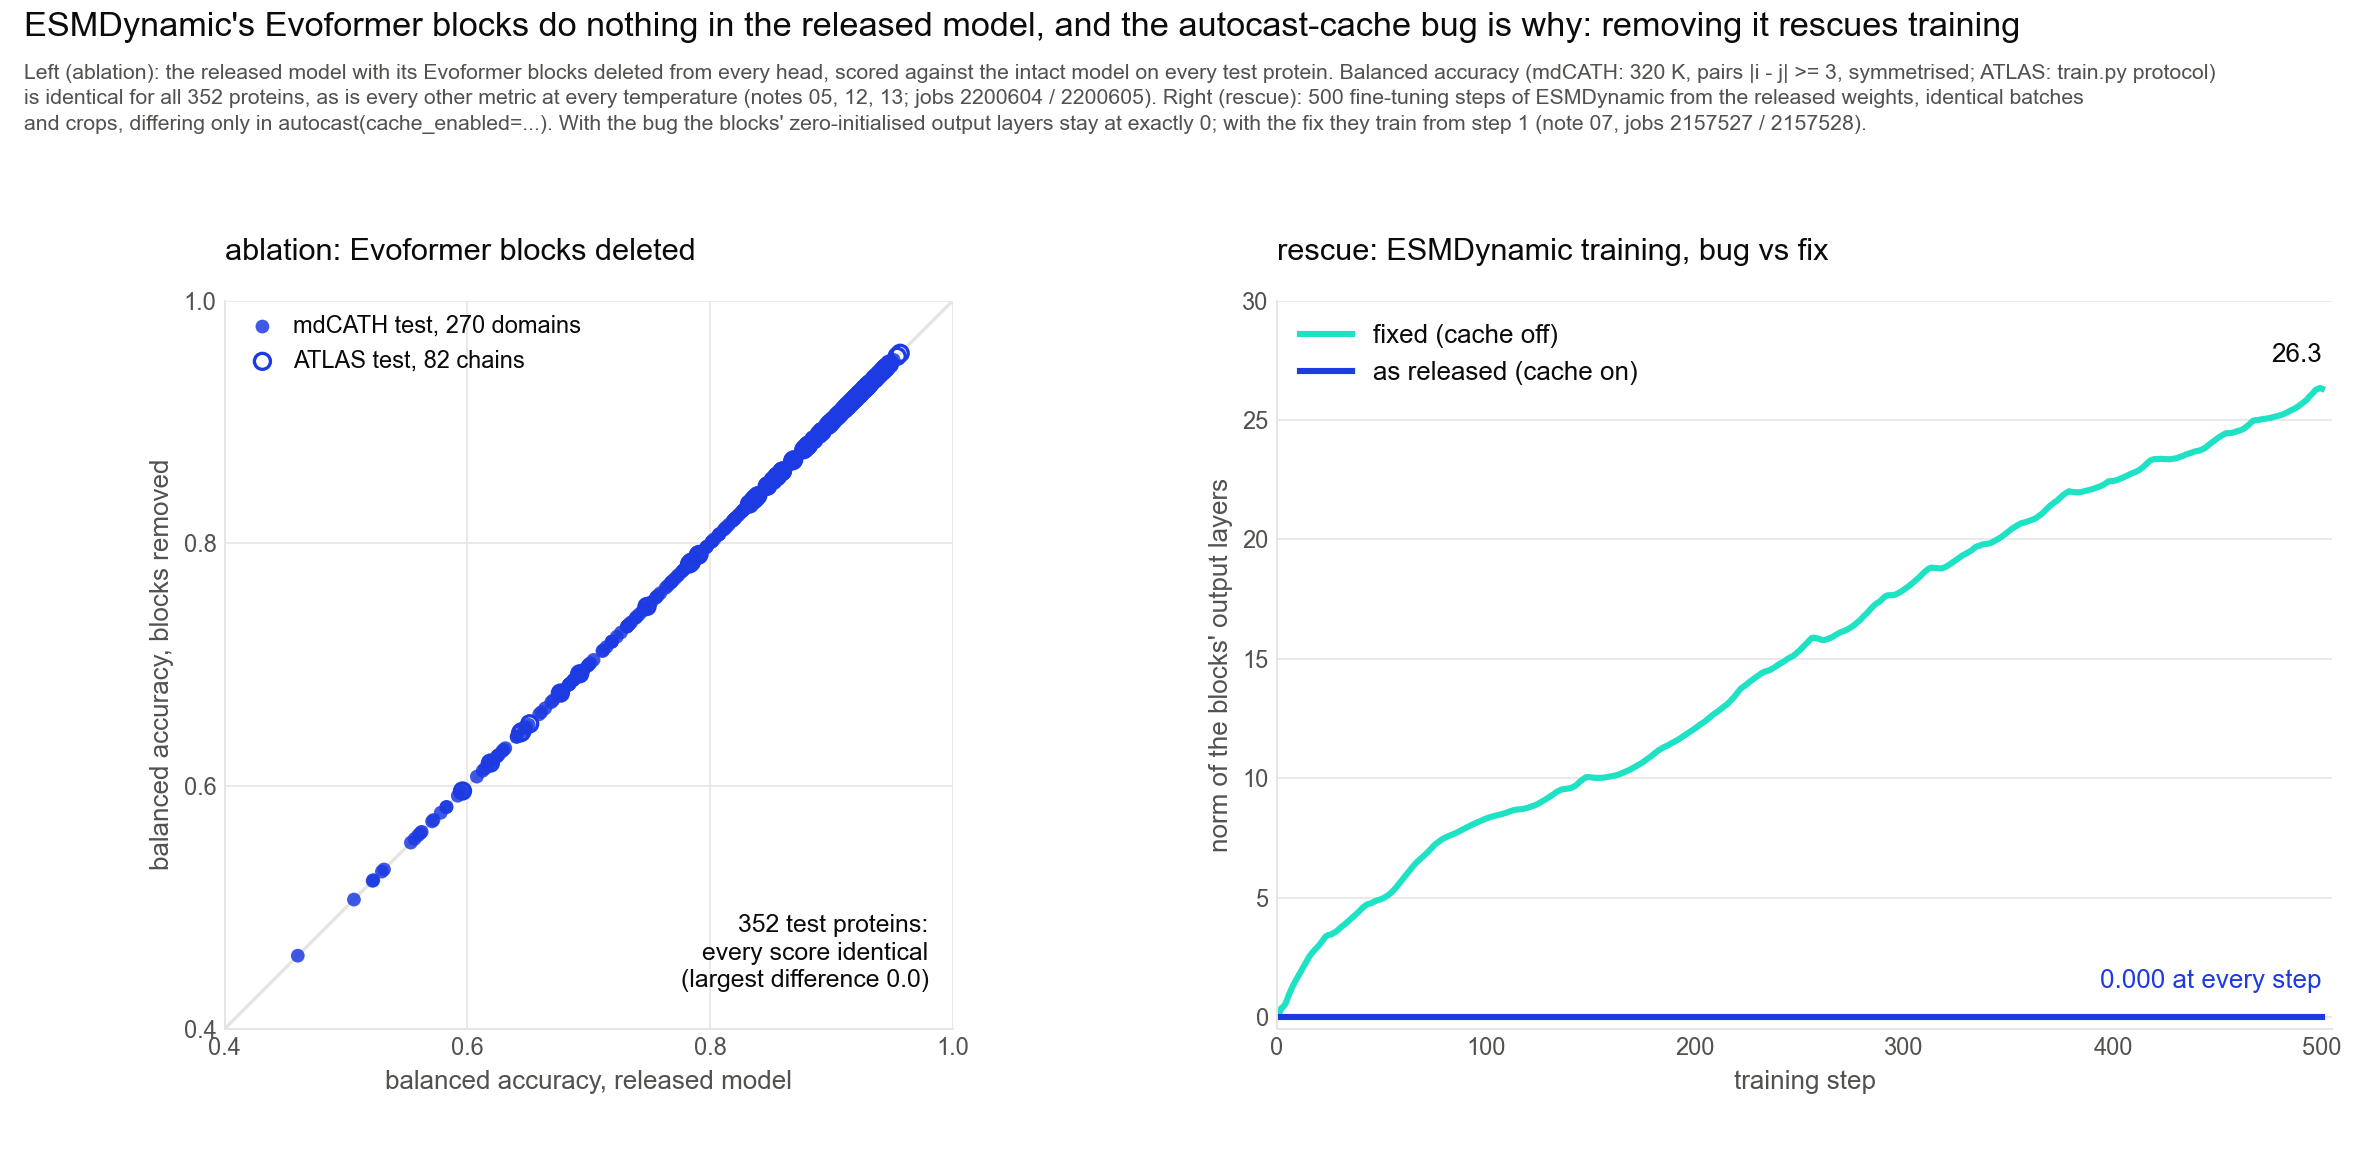
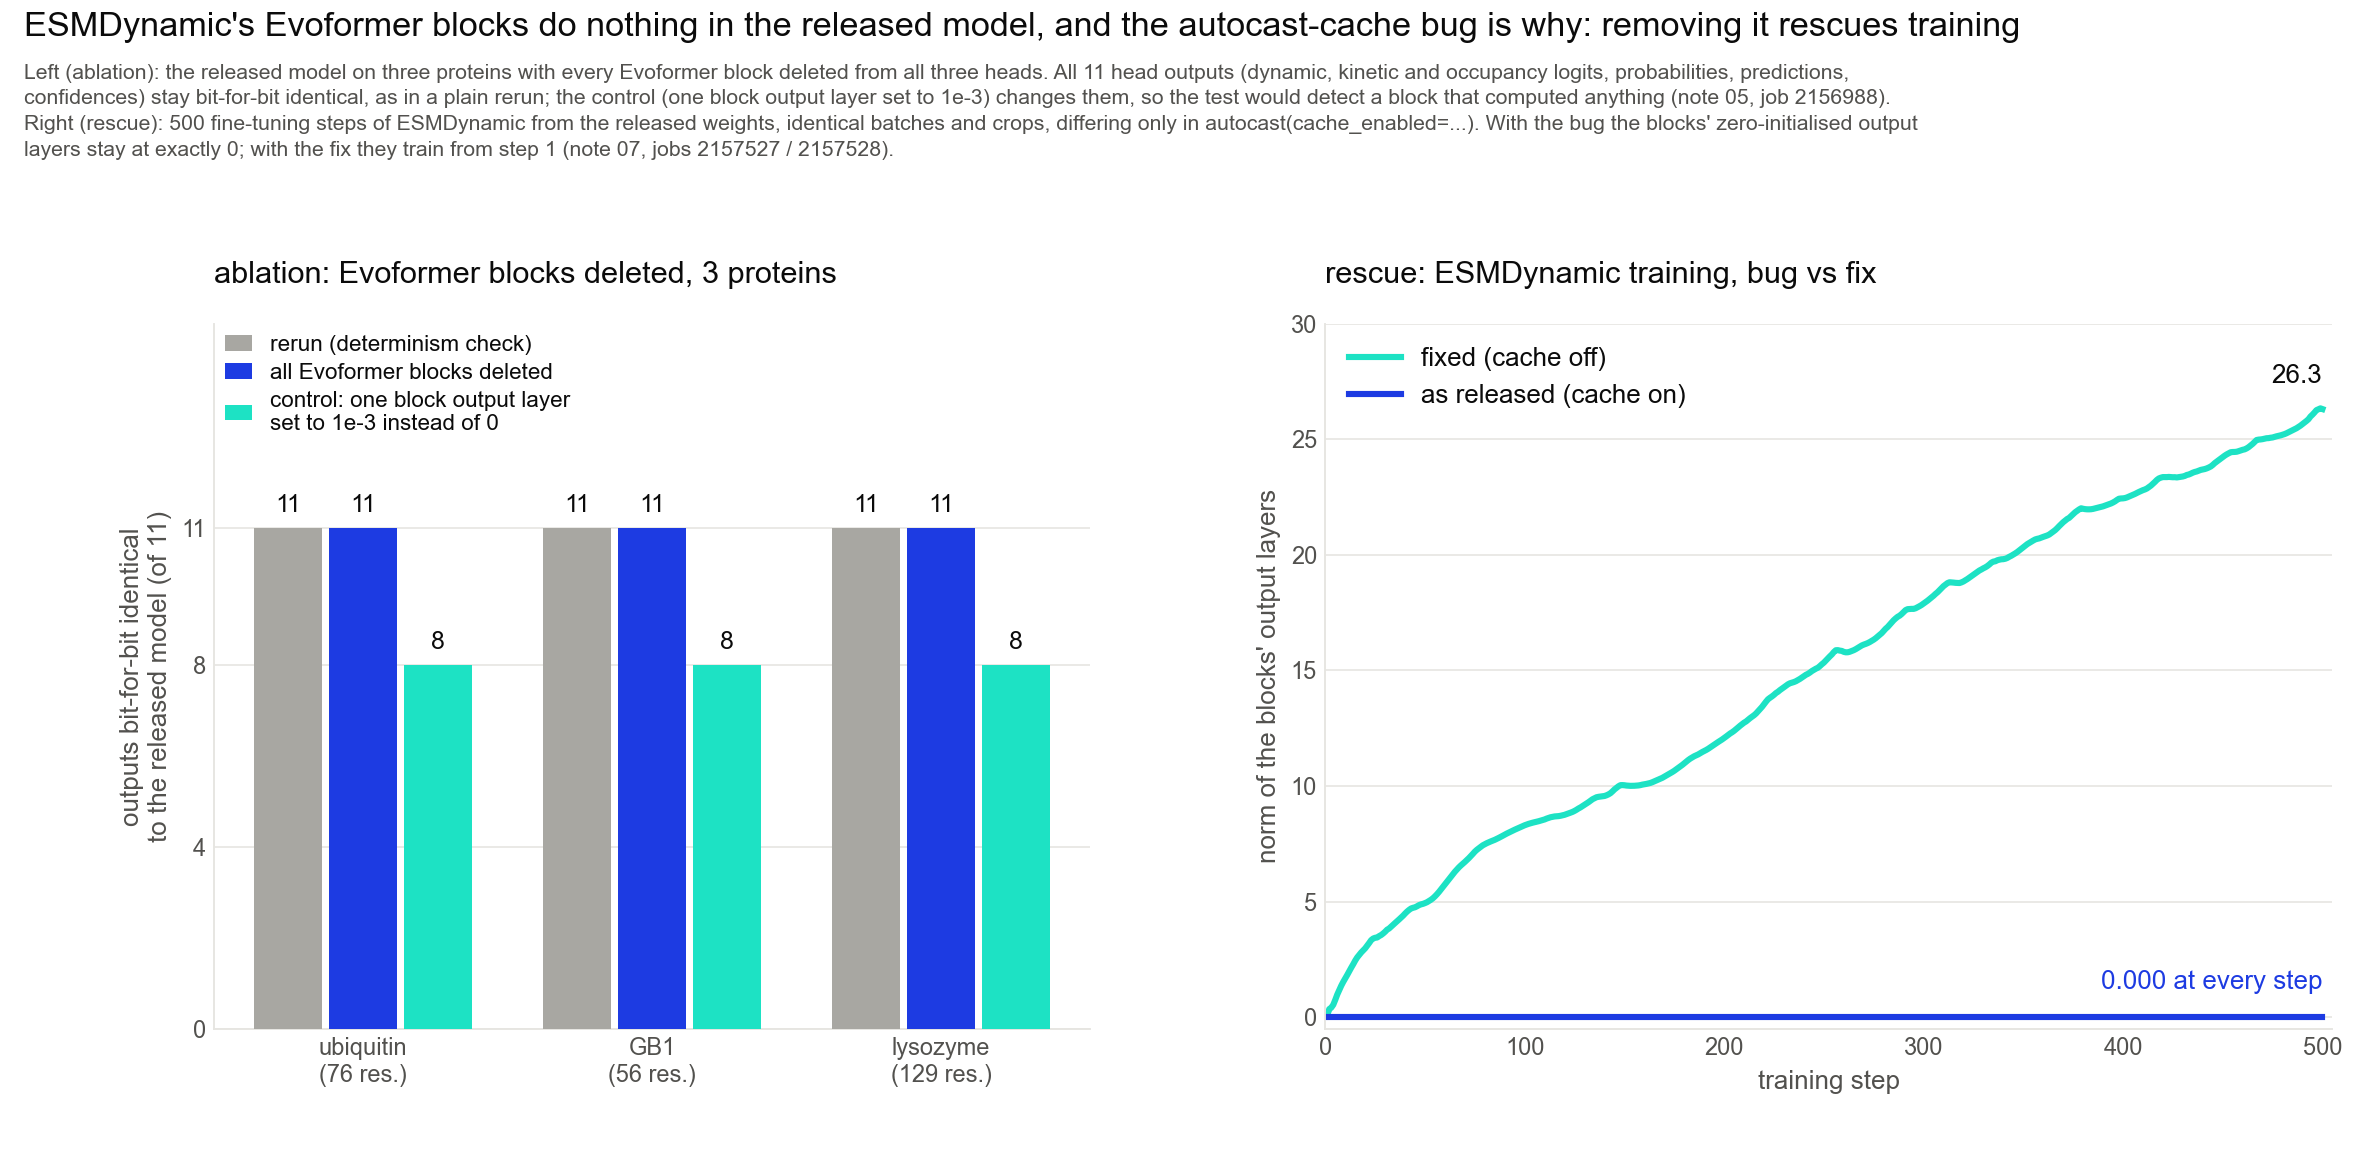
ablation_rescue: panel A is the three-protein block deletion (note 05) with its 1e-3 control

diff --git a/investigation/scripts/plot_ablation_rescue.py b/investigation/scripts/plot_ablation_rescue.py
@@ -4,12 +4,13 @@
     python investigation/scripts/plot_ablation_rescue.py --clean    # transparent, no title/caption, larger type
                                                                     #   -> figures/transparent/
 
-A  ablation (notes 05, 12, 13; jobs 2200604 / 2200605): the released V2 model scored with its
-   Evoformer blocks deleted from every head, against the intact model, per test protein:
-   balanced accuracy for the 270 mdCATH test domains (320 K; pairs |i - j| >= 3, symmetrised,
-   scikit-learn style) and the 82 ATLAS test chains (train.py protocol). Every score is identical
-   (largest difference over every metric, temperature and protocol: 0.0), because the untrained
-   blocks are identity maps.
+A  ablation (note 05, results/05_dcm_identity.json, scripts/dcm_identity_test.py, job 2156988):
+   the released V2 model on three proteins (ubiquitin, GB1, hen lysozyme), all 11 head outputs
+   compared bit for bit (torch.equal) with the intact model: a rerun (determinism check), every
+   Evoformer block deleted from all three heads, and a control in which one block's
+   zero-initialised output layer is set to 1e-3 so that block computes something. Deleting the
+   blocks changes nothing; the control changes that head's outputs, so the test would see a
+   block that did anything.
 B  rescue (results/07_training_check_cache_{on,off}.json, note 07, jobs 2157527 / 2157528): 500
    fine-tuning steps of ESMDynamic itself from the released V2 weights, identical batches and
    crops, differing only in autocast(cache_enabled=...). The norm of the blocks' zero-initialised
@@ -34,25 +35,7 @@ def main():
                             else "investigation/figures/gradient_flow/ablation_rescue.png"))
     fs = 1.45 if args.clean else 1.0
 
-    import numpy as np
-    import pandas as pd
-
-    def mdcath(path):
-        d = pd.read_csv(path)
-        d = d[(d.variant == "sym") & (d.k == 3) & (d.temp == 320)].copy()
-        d["bal_acc"] = np.where(d.n_negative == 0, d.recall, d.bal_acc)
-        return d.set_index("id").bal_acc
-
-    def atlas(path):
-        d = pd.read_csv(path)
-        d = d[(d.protocol == "crop256") & (d.variant == "unsym") & (d.temp == 320)]
-        return d.groupby("id").bal_acc.mean()
-
-    md = pd.concat([mdcath(RES / "13_eval_pairset_mdcath_per_protein.csv"),
-                    mdcath(RES / "13_eval_pairset_mdcath_noevoformer_per_protein.csv")], axis=1, keys=["full", "noevo"])
-    at = pd.concat([atlas(RES / "12_eval_protocol_atlas_per_protein.csv"),
-                    atlas(RES / "12_eval_protocol_atlas_noevoformer_per_protein.csv")], axis=1, keys=["full", "noevo"])
-    max_diff = max(float((md.full - md.noevo).abs().max()), float((at.full - at.noevo).abs().max()))
+    ident = json.loads((RES / "05_dcm_identity.json").read_text())["proteins"]
     on = json.loads((RES / "07_training_check_cache_on.json").read_text())["train"]
     off = json.loads((RES / "07_training_check_cache_off.json").read_text())["train"]
 
@@ -62,25 +45,30 @@ def main():
     plt.rcParams["font.family"] = "Arial"
 
     fig = plt.figure(figsize=(14, 6.0 if args.clean else 6.8))
-    gs = fig.add_gridspec(1, 2, width_ratios=[1, 1.25], wspace=0.28, left=0.07, right=0.98,
-                          top=0.86 if args.clean else 0.74, bottom=0.11)
+    gs = fig.add_gridspec(1, 2, width_ratios=[1, 1.15], wspace=0.25, left=0.09, right=0.98,
+                          top=0.86 if args.clean else 0.72, bottom=0.11)
     a, b = fig.add_subplot(gs[0, 0]), fig.add_subplot(gs[0, 1])
 
-    # A: ablation -- delete the Evoformer blocks from the released model
-    lw = 1.2 if args.clean else 1
-    a.plot([0, 1], [0, 1], color=GRID, lw=1.4, zorder=1)
-    a.scatter(md.full, md.noevo, s=34 * lw, color=BUG, alpha=0.85, edgecolors="none", zorder=3,
-              label=f"mdCATH test, {len(md)} domains")
-    a.scatter(at.full, at.noevo, s=46 * lw, facecolors="none", edgecolors=BUG, linewidths=1.4, zorder=4,
-              label=f"ATLAS test, {len(at)} chains")
-    a.set_xlim(0.4, 1.0); a.set_ylim(0.4, 1.0); a.set_aspect("equal")
-    a.set_xticks([0.4, 0.6, 0.8, 1.0]); a.set_yticks([0.4, 0.6, 0.8, 1.0])
-    a.set_xlabel("balanced accuracy, released model", fontsize=11 * fs, color=INK_2)
-    a.set_ylabel("balanced accuracy, blocks removed", fontsize=11 * fs, color=INK_2)
-    a.text(0.98, 0.43, f"{len(md) + len(at)} test proteins:\nevery score identical\n(largest difference {max_diff:.1f})",
-           ha="right", va="bottom", fontsize=10.5 * fs, color=INK, linespacing=1.25)
-    a.legend(loc="upper left", frameon=False, fontsize=10 * fs, labelcolor=INK, handletextpad=0.3, borderaxespad=0.2)
-    a.grid(color=GRID, lw=0.7, zorder=0); a.set_axisbelow(True)
+    # A: ablation -- delete the Evoformer blocks from the released model, three proteins
+    names = {"ubiquitin": "ubiquitin\n(76 res.)", "GB1": "GB1\n(56 res.)", "HEWL": "lysozyme\n(129 res.)"}
+    conds = [("rerun (determinism check)", "rerun", "#a8a7a2"),
+             ("all Evoformer blocks deleted", "no_blocks", BUG),
+             ("control: one block output layer\nset to 1e-3 instead of 0", "perturbed", FIX)]
+    w = 0.26
+    for i, (lab, key, col) in enumerate(conds):
+        xs = [k + (i - 1) * w for k in range(len(names))]
+        vals = [sum(o["equal"] for o in ident[p][key].values()) for p in names]
+        a.bar(xs, vals, width=w * 0.9, color=col, zorder=3, label=lab, edgecolor="none")
+        for xx, v in zip(xs, vals):
+            a.text(xx, v + 0.25, f"{v}", ha="center", va="bottom", fontsize=10.5 * fs, color=INK)
+    a.set_xticks(range(len(names)))
+    a.set_xticklabels(names.values(), fontsize=10.5 * fs, color=INK)
+    a.set_ylim(0, 15.5)
+    a.set_yticks([0, 4, 8, 11])
+    a.set_ylabel("outputs bit-for-bit identical\nto the released model (of 11)", fontsize=11 * fs, color=INK_2)
+    a.legend(loc="upper left", frameon=False, fontsize=9.5 * fs, labelcolor=INK, ncol=1,
+             handlelength=1.2, borderaxespad=0.1, labelspacing=0.35)
+    a.grid(axis="y", color=GRID, lw=0.7, zorder=0); a.set_axisbelow(True)
     for side in ("top", "right"):
         a.spines[side].set_visible(False)
     for side in ("left", "bottom"):
@@ -106,9 +94,8 @@ def main():
     b.legend(loc="upper left", frameon=False, fontsize=11 * fs, labelcolor=INK)
 
     # panel titles at one height above both panels (A's top tick labels would collide with set_title)
-    a.apply_aspect()                      # A is square: its frame is only known after the aspect is applied
     y_title = max(a.get_position().y1, b.get_position().y1) + 0.03
-    for ax, t in ((a, "ablation: Evoformer blocks deleted"), (b, "rescue: ESMDynamic training, bug vs fix")):
+    for ax, t in ((a, "ablation: Evoformer blocks deleted, 3 proteins"), (b, "rescue: ESMDynamic training, bug vs fix")):
         fig.text(ax.get_position().x0, y_title, t, fontsize=13 * fs, color=INK, va="bottom", ha="left")
     if args.clean:
         for ax in (a, b):
@@ -116,12 +103,13 @@ def main():
     else:
         fig.text(0.01, 0.99, "ESMDynamic's Evoformer blocks do nothing in the released model, and the autocast-cache bug "
                  "is why: removing it rescues training", fontsize=14.5, color=INK, va="top")
-        fig.text(0.01, 0.945, "Left (ablation): the released model with its Evoformer blocks deleted from every head, scored "
-                 "against the intact model on every test protein. Balanced accuracy (mdCATH: 320 K, pairs |i - j| >= 3, "
-                 "symmetrised; ATLAS: train.py protocol)\nis identical for all 352 proteins, as is every other metric at every "
-                 "temperature (notes 05, 12, 13; jobs 2200604 / 2200605). Right (rescue): 500 fine-tuning steps of ESMDynamic "
-                 "from the released weights, identical batches\nand crops, differing only in autocast(cache_enabled=...). With "
-                 "the bug the blocks' zero-initialised output layers stay at exactly 0; with the fix they train from step 1 "
+        fig.text(0.01, 0.945, "Left (ablation): the released model on three proteins with every Evoformer block deleted "
+                 "from all three heads. All 11 head outputs (dynamic, kinetic and occupancy logits, probabilities, "
+                 "predictions,\nconfidences) stay bit-for-bit identical, as in a plain rerun; the control (one block "
+                 "output layer set to 1e-3) changes them, so the test would detect a block that computed anything "
+                 "(note 05, job 2156988).\nRight (rescue): 500 fine-tuning steps of ESMDynamic from the released weights, "
+                 "identical batches and crops, differing only in autocast(cache_enabled=...). With the bug the blocks' "
+                 "zero-initialised output\nlayers stay at exactly 0; with the fix they train from step 1 "
                  "(note 07, jobs 2157527 / 2157528).",
                  fontsize=9, color=INK_2, va="top", linespacing=1.45)
     out.parent.mkdir(parents=True, exist_ok=True)

diff --git a/investigation/figures/transparent/README.md b/investigation/figures/transparent/README.md
@@ -12,4 +12,4 @@ other folders and are the reference for what each figure shows.
 | `15_trained_vs_untrained_params.png` | `python investigation/scripts/plot_param_pies.py` (counts: `param_counts.py` → `results/15_param_counts.json`) | none: made for this folder. Per head of the released V2 weights, parameters trained (teal) vs still at initialisation (dark blue: every DCM block tensor, plus the occupancy head's single-state path) |
 | `E1_block_weights_at_init.png` | `python investigation/scripts/plot_evidence.py --clean` | `figures/evidence/E1_block_weights_at_init.png` (EVIDENCE E1). Released V2 weights only (V1 dropped), bars in the dark blue #1D3BE2, larger type |
 | `15_pretrain_leakage.png` | `python investigation/scripts/plot_leakage.py --clean` | `figures/leakage/15_pretrain_leakage.png`. Test proteins also in RCSB pre-training, and the released weights' scores by group (`results/15_leakage_effect.json`) |
-| `ablation_rescue.png` | `python investigation/scripts/plot_ablation_rescue.py --clean` | `figures/gradient_flow/ablation_rescue.png`. Ablation (released model with its Evoformer blocks deleted: every test protein's score identical) and rescue (check 7: blocks stay at 0 with the bug, train with the fix) |
+| `ablation_rescue.png` | `python investigation/scripts/plot_ablation_rescue.py --clean` | `figures/gradient_flow/ablation_rescue.png`. Ablation (note 05: three proteins, Evoformer blocks deleted, all 11 outputs bit-for-bit identical; a 1e-3 control changes them) and rescue (check 7: blocks stay at 0 with the bug, train with the fix) |
